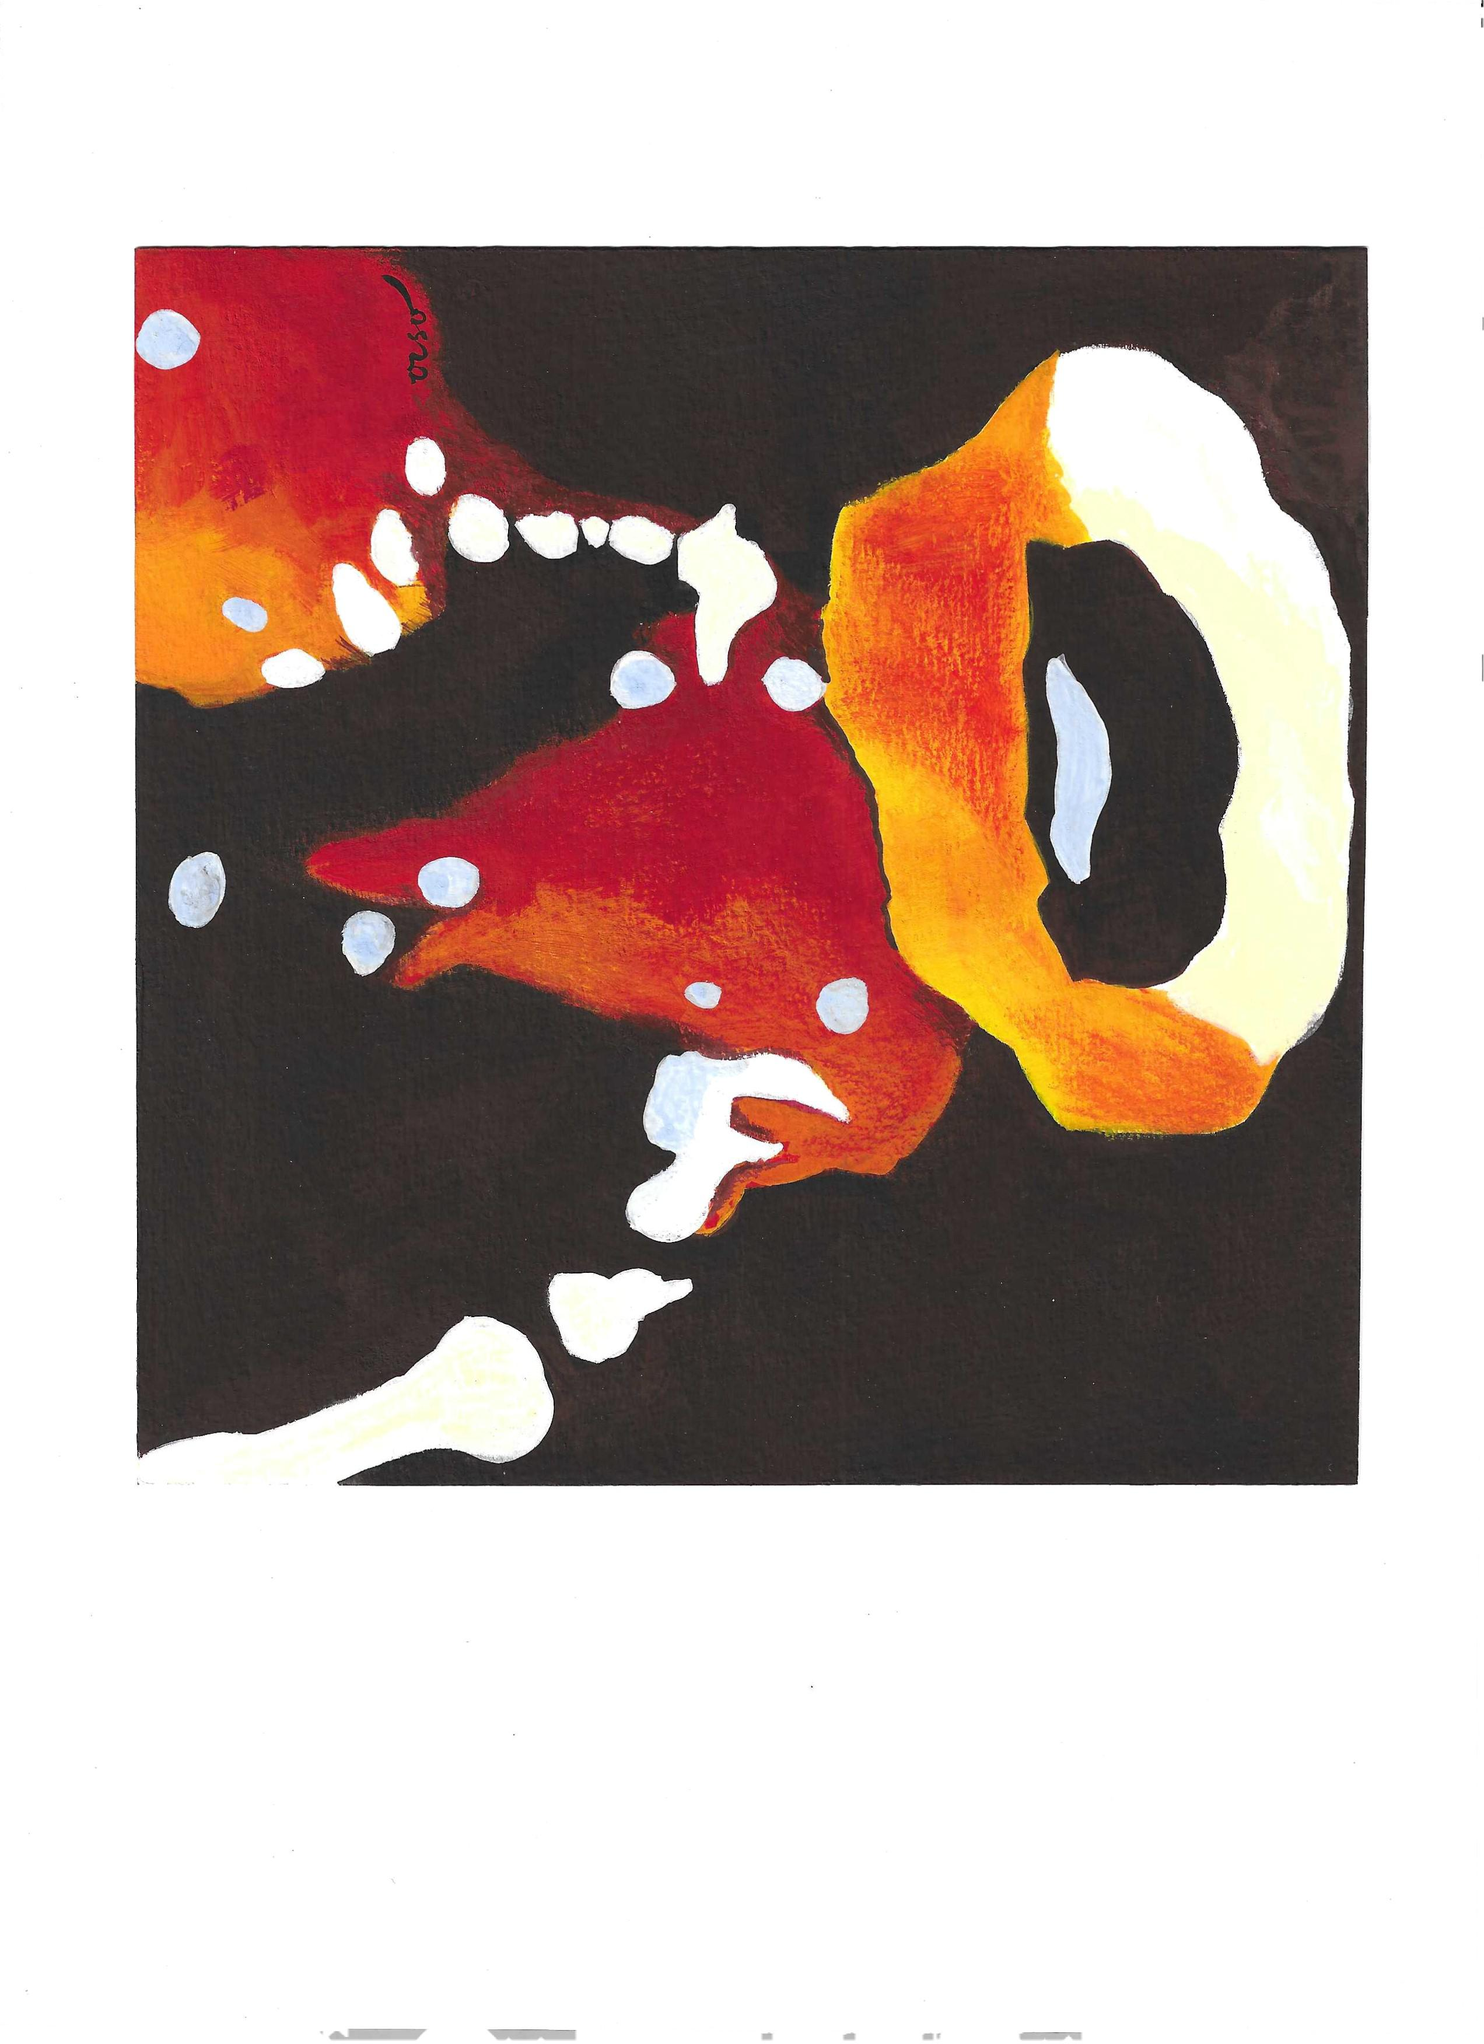
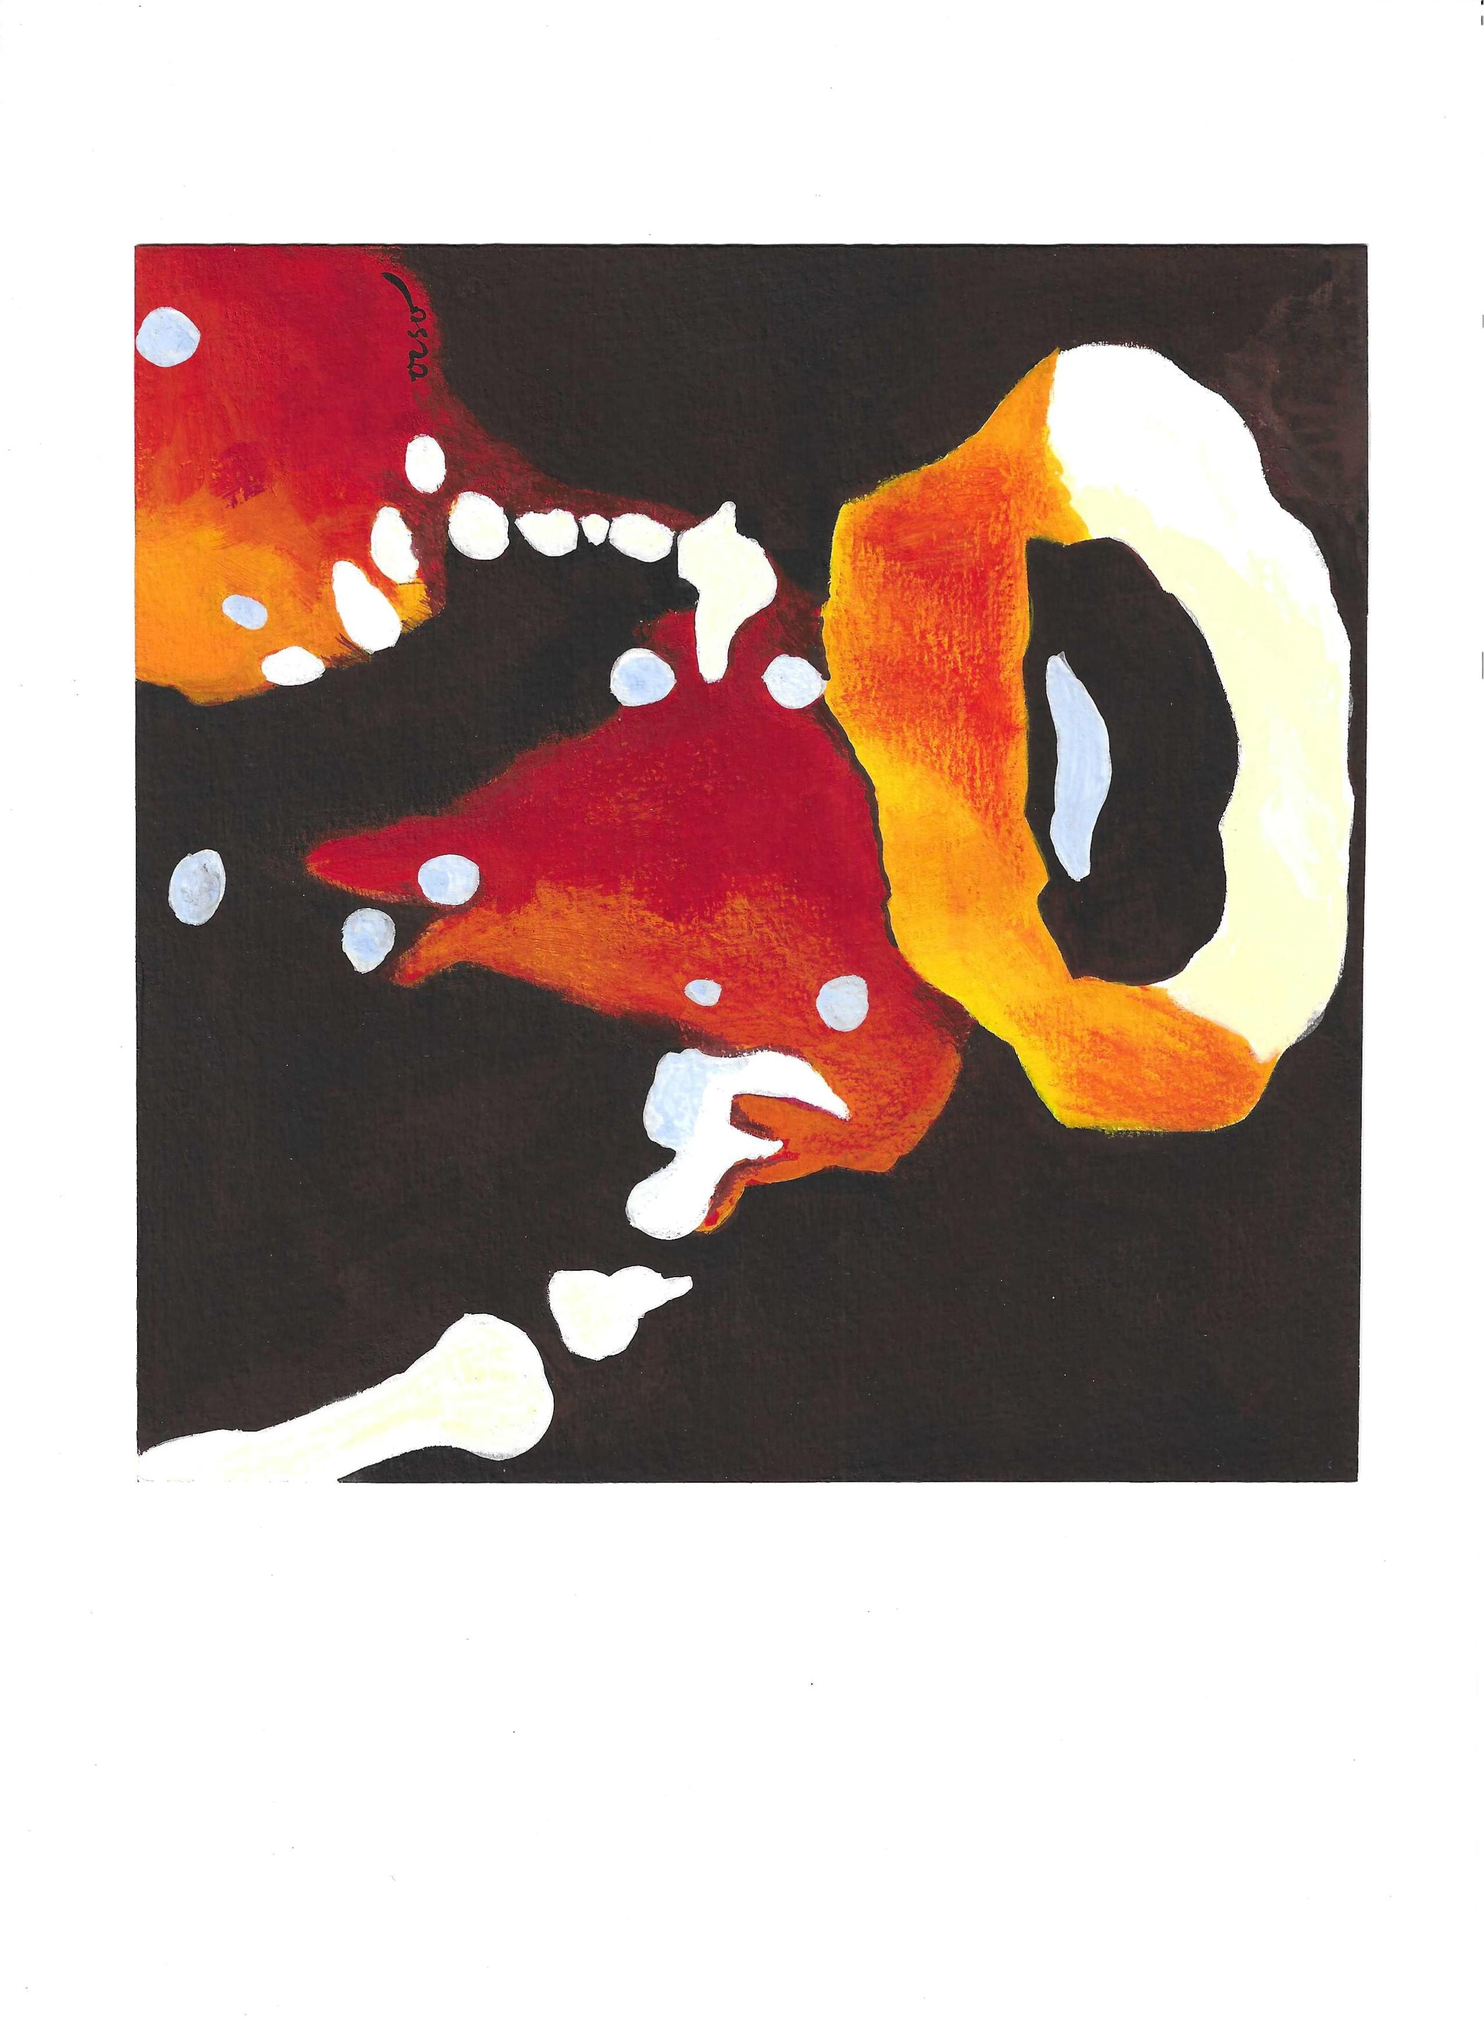
fix: images

diff --git a/README.md b/README.md
@@ -91,9 +91,8 @@ Le corps Markdown est rendu sous l'intro.
 ---
 image: ./portrait.jpeg
 imageAlt: Portrait de Vanessa Noizet devant une œuvre d'archives
-intro: Historienne de l'art, chercheuse en art brut et art naïf.
+intro: Historienne de l'art, chercheuse en art Brut et art Naïf.
 ---
-
 Texte d'introduction au format Markdown…
 ```
 
@@ -101,11 +100,11 @@ Texte d'introduction au format Markdown…
 
 Un fichier `*.md` par article. Corps Markdown rendu sur la fiche.
 
-| Champ   | Type | Requis | Rôle                                       |
-| ------- | ---- | ------ | ------------------------------------------ |
-| `title` | str  | oui    | Titre                                      |
-| `date`  | date | oui    | Date de publication (tri descendant)       |
-| `pdf`   | str  | non    | Chemin du PDF, ex. `/pdfs/article.pdf`     |
+| Champ   | Type | Requis | Rôle                                   |
+| ------- | ---- | ------ | -------------------------------------- |
+| `title` | str  | oui    | Titre                                  |
+| `date`  | date | oui    | Date de publication (tri descendant)   |
+| `pdf`   | str  | non    | Chemin du PDF, ex. `/pdfs/article.pdf` |
 
 ```yaml
 ---
@@ -113,7 +112,6 @@ title: 'Gaston Chaissac / Anatole Jakovsky : duo, duel, trio'
 date: 2015-02-01
 pdf: /pdfs/chaissac-jakovsky.pdf
 ---
-
 Corps de l'article…
 ```
 
@@ -121,17 +119,17 @@ Corps de l'article…
 
 Un fichier `*.md` par publication. Pas de corps utilisé.
 
-| Champ       | Type   | Requis | Rôle                                                  |
-| ----------- | ------ | ------ | ----------------------------------------------------- |
-| `title`     | str    | oui    | Titre                                                 |
-| `subtitle`  | str    | non    | Sous-titre                                            |
-| `date`      | date   | oui    | Pour le tri                                           |
-| `year`      | str    | oui    | Année affichée (peut différer du tri, ex. `2015`)     |
-| `publisher` | str    | oui    | Éditeur, lieu                                         |
-| `role`      | str    | non    | Rôle, ex. `Co-autrice`, `Direction d'ouvrage`         |
-| `pages`     | str    | non    | Pagination, ex. `224 pages`                           |
-| `isbn`      | str    | non    | ISBN                                                  |
-| `link`      | objet  | non    | `{ url, label }` lien externe                         |
+| Champ       | Type  | Requis | Rôle                                              |
+| ----------- | ----- | ------ | ------------------------------------------------- |
+| `title`     | str   | oui    | Titre                                             |
+| `subtitle`  | str   | non    | Sous-titre                                        |
+| `date`      | date  | oui    | Pour le tri                                       |
+| `year`      | str   | oui    | Année affichée (peut différer du tri, ex. `2015`) |
+| `publisher` | str   | oui    | Éditeur, lieu                                     |
+| `role`      | str   | non    | Rôle, ex. `Co-autrice`, `Direction d'ouvrage`     |
+| `pages`     | str   | non    | Pagination, ex. `224 pages`                       |
+| `isbn`      | str   | non    | ISBN                                              |
+| `link`      | objet | non    | `{ url, label }` lien externe                     |
 
 ```yaml
 ---
@@ -153,11 +151,11 @@ link:
 
 Un fichier `*.md` par entrée. Pas de corps.
 
-| Champ      | Type | Requis | Rôle                                                                        |
-| ---------- | ---- | ------ | --------------------------------------------------------------------------- |
-| `title`    | str  | oui    | Référence complète                                                          |
-| `year`     | str  | oui    | Année affichée                                                              |
-| `date`     | date | oui    | Tri chronologique                                                           |
+| Champ      | Type | Requis | Rôle                                                                                    |
+| ---------- | ---- | ------ | --------------------------------------------------------------------------------------- |
+| `title`    | str  | oui    | Référence complète                                                                      |
+| `year`     | str  | oui    | Année affichée                                                                          |
+| `date`     | date | oui    | Tri chronologique                                                                       |
 | `category` | enum | oui    | `these`, `memoire`, `article`, `catalogue`, `court-texte`, `compte-rendu`, `conference` |
 
 ```yaml
@@ -173,28 +171,28 @@ category: conference
 
 Un fichier `*.md` par exposition. Corps Markdown rendu sur la fiche.
 
-| Champ     | Type   | Requis | Rôle                                                  |
-| --------- | ------ | ------ | ----------------------------------------------------- |
-| `title`   | str    | oui    | Titre                                                 |
-| `date`    | date   | oui    | Date de début                                         |
-| `dateEnd` | date   | non    | Date de fin                                           |
-| `venue`   | str    | oui    | Lieu / institution                                    |
-| `city`    | str    | non    | Ville                                                 |
-| `role`    | str    | non    | Rôle, ex. `Commissariat`, `Conseillère scientifique`  |
-| `pdf`     | str    | non    | Dossier de presse, `/pdfs/...`                        |
-| `link`    | objet  | non    | `{ url, label }`                                      |
-| `cover`   | objet  | oui    | `{ src, alt }` image de couverture (URL ou chemin)    |
-| `images`  | array  | non    | Galerie, voir ci-dessous                              |
+| Champ     | Type  | Requis | Rôle                                                 |
+| --------- | ----- | ------ | ---------------------------------------------------- |
+| `title`   | str   | oui    | Titre                                                |
+| `date`    | date  | oui    | Date de début                                        |
+| `dateEnd` | date  | non    | Date de fin                                          |
+| `venue`   | str   | oui    | Lieu / institution                                   |
+| `city`    | str   | non    | Ville                                                |
+| `role`    | str   | non    | Rôle, ex. `Commissariat`, `Conseillère scientifique` |
+| `pdf`     | str   | non    | Dossier de presse, `/pdfs/...`                       |
+| `link`    | objet | non    | `{ url, label }`                                     |
+| `cover`   | objet | oui    | `{ src, alt }` image de couverture (URL ou chemin)   |
+| `images`  | array | non    | Galerie, voir ci-dessous                             |
 
 `images[]` :
 
-| Champ     | Type | Requis | Rôle                                                  |
-| --------- | ---- | ------ | ----------------------------------------------------- |
-| `src`     | str  | oui    | URL ou chemin, ex. `/placeholders/landscape.jpg`      |
-| `alt`     | str  | oui    | Texte alternatif                                      |
-| `caption` | str  | non    | Légende sous l'image                                  |
+| Champ     | Type | Requis | Rôle                                                   |
+| --------- | ---- | ------ | ------------------------------------------------------ |
+| `src`     | str  | oui    | URL ou chemin, ex. `/placeholders/landscape.jpg`       |
+| `alt`     | str  | oui    | Texte alternatif                                       |
+| `caption` | str  | non    | Légende sous l'image                                   |
 | `width`   | num  | non    | Largeur intrinsèque, sert au calcul d'aspect en grille |
-| `height`  | num  | non    | Hauteur intrinsèque                                   |
+| `height`  | num  | non    | Hauteur intrinsèque                                    |
 
 Placeholders fournis dans `public/placeholders/` : `landscape-wide.jpg` (1600×1000), `landscape.jpg` (1400×1000), `portrait.jpg` (1000×1400), `portrait-tall.jpg` (1000×1600). Pour de vraies images, déposer dans `public/` puis renseigner `width`/`height`.
 
@@ -219,7 +217,6 @@ images:
     alt: 'Figure féminine au regard de cobalt'
     caption: '*Cléopâtre au bain*, vers 1947.'
 ---
-
 Corps Markdown décrivant l'exposition…
 ```
 
@@ -227,20 +224,20 @@ Corps Markdown décrivant l'exposition…
 
 Un fichier `*.md` par hommage. Corps Markdown rendu.
 
-| Champ   | Type | Requis | Rôle                       |
-| ------- | ---- | ------ | -------------------------- |
-| `title` | str  | oui    | Titre                      |
-| `date`  | date | oui    | Date (tri)                 |
-| `pdf`   | str  | non    | PDF associé, `/pdfs/...`   |
+| Champ   | Type | Requis | Rôle                     |
+| ------- | ---- | ------ | ------------------------ |
+| `title` | str  | oui    | Titre                    |
+| `date`  | date | oui    | Date (tri)               |
+| `pdf`   | str  | non    | PDF associé, `/pdfs/...` |
 
 ### `livredor/` — entrées du livre d'or
 
 Un fichier `*.md` par entrée. Corps Markdown rendu.
 
-| Champ   | Type | Requis | Rôle                |
-| ------- | ---- | ------ | ------------------- |
-| `title` | str  | oui    | Auteur ou intitulé  |
-| `date`  | date | oui    | Date                |
+| Champ   | Type | Requis | Rôle               |
+| ------- | ---- | ------ | ------------------ |
+| `title` | str  | oui    | Auteur ou intitulé |
+| `date`  | date | oui    | Date               |
 
 ### `interventions/` — interventions (colloques, conférences, etc.)
 
@@ -259,15 +256,15 @@ Même schéma que `interventions`. Le dossier `content/memoires/` est à créer 
 
 Fichier unique `content/biographie/index.md`. Corps Markdown rendu entre le lead et les listes.
 
-| Champ           | Type    | Requis | Rôle                                                         |
-| --------------- | ------- | ------ | ------------------------------------------------------------ |
-| `birthDate`     | date    | oui    | Date de naissance                                            |
-| `birthPlace`    | str     | oui    | Lieu de naissance                                            |
-| `deathDate`     | date    | oui    | Date de décès                                                |
-| `deathPlace`    | str     | oui    | Lieu de décès                                                |
-| `lead`          | str     | oui    | Phrase d'introduction (italique implicite, `*mot*` accepté)  |
-| `enseignements` | array   | oui    | Liste `{ years, body }`                                      |
-| `bourses`       | array   | oui    | Liste `{ years, body }`                                      |
+| Champ           | Type  | Requis | Rôle                                                        |
+| --------------- | ----- | ------ | ----------------------------------------------------------- |
+| `birthDate`     | date  | oui    | Date de naissance                                           |
+| `birthPlace`    | str   | oui    | Lieu de naissance                                           |
+| `deathDate`     | date  | oui    | Date de décès                                               |
+| `deathPlace`    | str   | oui    | Lieu de décès                                               |
+| `lead`          | str   | oui    | Phrase d'introduction (italique implicite, `*mot*` accepté) |
+| `enseignements` | array | oui    | Liste `{ years, body }`                                     |
+| `bourses`       | array | oui    | Liste `{ years, body }`                                     |
 
 ```yaml
 ---
@@ -290,10 +287,10 @@ bourses:
 
 Fichier unique `content/cv/index.md`. Pas de corps.
 
-| Champ      | Type  | Requis | Rôle                                                       |
-| ---------- | ----- | ------ | ---------------------------------------------------------- |
-| `pdf`      | str   | non    | PDF du CV téléchargeable                                   |
-| `sections` | array | oui    | Sections : `{ heading, entries: [{ years, body }] }`       |
+| Champ      | Type  | Requis | Rôle                                                 |
+| ---------- | ----- | ------ | ---------------------------------------------------- |
+| `pdf`      | str   | non    | PDF du CV téléchargeable                             |
+| `sections` | array | oui    | Sections : `{ heading, entries: [{ years, body }] }` |
 
 ```yaml
 ---
@@ -314,10 +311,10 @@ sections:
 
 Un fichier `*.md` par dessin, image co-localisée. Pas de corps. Images optimisées en `webp` automatiquement par Astro.
 
-| Champ     | Type  | Requis | Rôle                                              |
-| --------- | ----- | ------ | ------------------------------------------------- |
-| `image`   | image | oui    | Chemin relatif vers le fichier (`./dessin-01.jpg`) |
-| `caption` | str   | non    | Légende affichée sous l'image                     |
+| Champ     | Type  | Requis | Rôle                                                    |
+| --------- | ----- | ------ | ------------------------------------------------------- |
+| `image`   | image | oui    | Chemin relatif vers le fichier (`./dessin-01.jpg`)      |
+| `caption` | str   | non    | Légende affichée sous l'image                           |
 | `order`   | num   | non    | Tri ascendant (à défaut, ordre alphabétique du fichier) |
 
 ```yaml
@@ -330,9 +327,9 @@ order: 1
 
 ## Médias
 
-| Dossier              | Contenu                                                                  |
-| -------------------- | ------------------------------------------------------------------------ |
-| `public/pdfs/`       | PDF référencés par les collections (articles, hommages, expositions, cv) |
-| `public/placeholders/` | Images de remplissage pour expositions (4 tailles fournies)            |
-| `public/favicon.svg` | Favicon                                                                  |
-| `content/<col>/*.jpg` ou `.jpeg` | Images co-localisées des collections `home` et `dessins`     |
+| Dossier                          | Contenu                                                                  |
+| -------------------------------- | ------------------------------------------------------------------------ |
+| `public/pdfs/`                   | PDF référencés par les collections (articles, hommages, expositions, cv) |
+| `public/placeholders/`           | Images de remplissage pour expositions (4 tailles fournies)              |
+| `public/favicon.svg`             | Favicon                                                                  |
+| `content/<col>/*.jpg` ou `.jpeg` | Images co-localisées des collections `home` et `dessins`                 |

diff --git a/content/biographie/index.md b/content/biographie/index.md
@@ -33,6 +33,6 @@ En 2014, elle entame une thèse doctorale à l'université Paris I, Panthéon So
 
 ## Recherches
 
-Les travaux de Vanessa Noizet s'inscrivent dans les champs de l'art brut et de l'art naïf, dont elle interroge les contours. Elle est spécialiste de Gaston Chaissac dont elle analyse la réception critique (thèse de doctorat non soutenue).
+Les travaux de Vanessa Noizet s'inscrivent dans les champs de l'art Brut et de l'art Naïf, dont elle interroge les contours. Elle est spécialiste de Gaston Chaissac dont elle analyse la réception critique (thèse de doctorat non soutenue).
 
 Sa découverte de Chaissac s'est faite par le prisme d'Anatole Jakovsky, objet de ses mémoires de recherche soutenus à l'université Paris IV Sorbonne sous la direction d'Arnauld Pierre : _Anatole Jakovsky (1907, 1983) : la trajectoire d'un critique d'art au vingtième siècle_ (M1), puis _« Cher collègue » : étude de la correspondance échangée entre Gaston Chaissac et Anatole Jakovsky (1948 à 1964)_ (M2).
